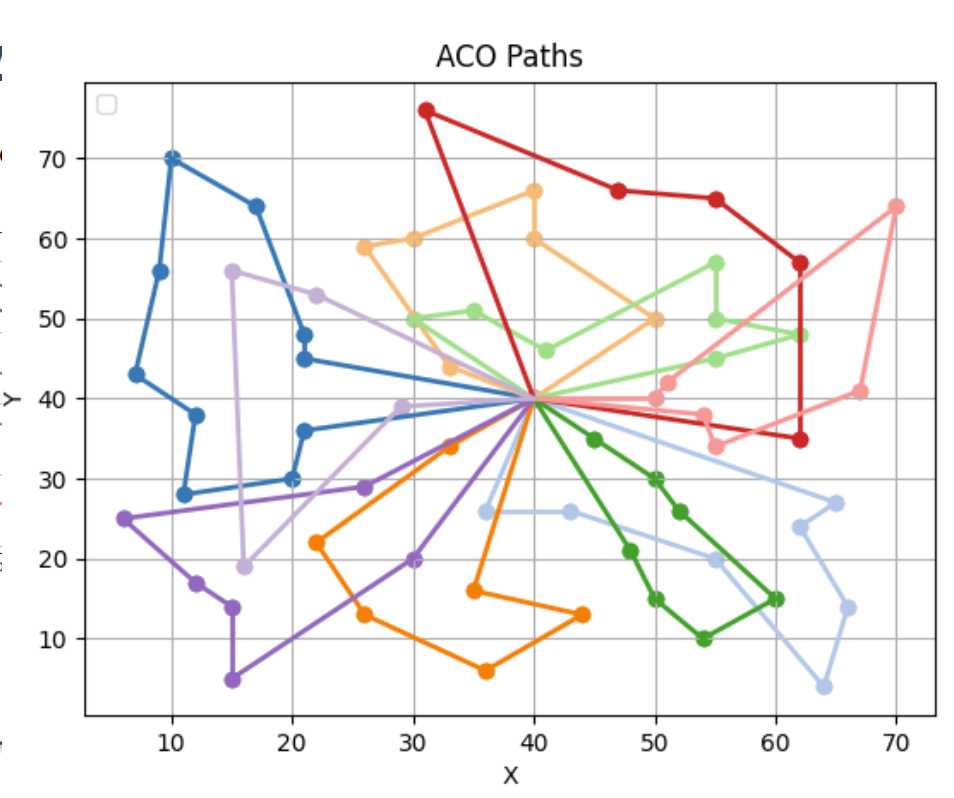
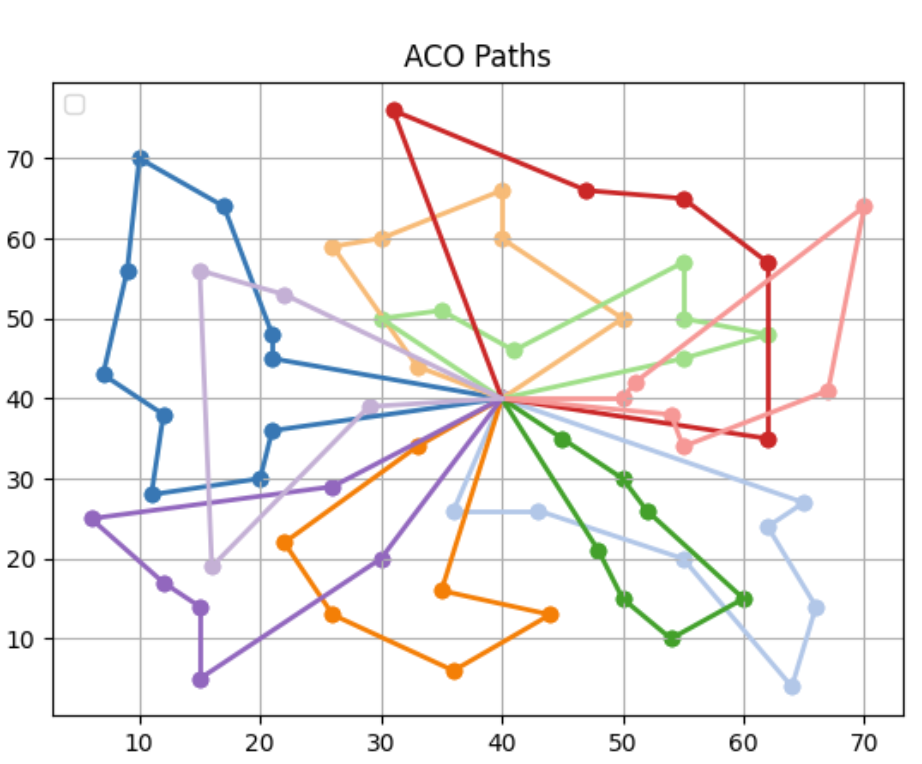
add README.md

Changed region(s): [[0.0, 0.0301, 1.0, 0.9935]]

diff --git a/README.md b/README.md
@@ -6,4 +6,5 @@ This is the source code of the Ant Colony Optimization applied for Multi-robot T
 To run the program, dowload all the source code and run "main.m" in python
 
 Below are visualizations of the ACO_mTSP algorithm for the scenario of 65 tasks, 10 agents:
-![image](P-n65-k10.png)
+
+<img src="P-n65-k10.png" alt="P-n65-k10" width="250"/>
